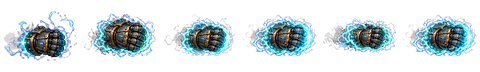
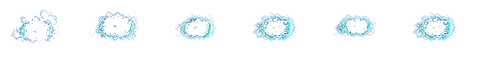
Fix Blitzcrank hook and power fist visuals

diff --git a/tools/ci_encyclopedia_visibility_check.py b/tools/ci_encyclopedia_visibility_check.py
@@ -159,10 +159,6 @@ BLITZCRANK_BUFF_REFS = {
     ),
 }
 BLITZCRANK_VIEW_EFFECT_REFS = {
-    "test_mod_blitzcrank_attack_punch": (
-        "asset/bo_league_champions/aseprite_resources/effects/blitzcrank_attack_punch",
-        "punch",
-    ),
     "test_mod_blitzcrank_punch_hit": (
         "asset/bo_league_champions/aseprite_resources/effects/blitzcrank_punch_hit",
         "hit",
@@ -174,14 +170,6 @@ BLITZCRANK_VIEW_EFFECT_REFS = {
     "test_mod_blitzcrank_grab_hit": (
         "asset/bo_league_champions/aseprite_resources/effects/blitzcrank_grab_hit",
         "hit",
-    ),
-    "test_mod_blitzcrank_mana_barrier": (
-        "asset/bo_league_champions/aseprite_resources/effects/blitzcrank_mana_barrier",
-        "shield",
-    ),
-    "test_mod_blitzcrank_power_fist_ready": (
-        "asset/bo_league_champions/aseprite_resources/effects/blitzcrank_power_fist_ready",
-        "ready",
     ),
     "test_mod_blitzcrank_static_field_cast": (
         "asset/bo_league_champions/aseprite_resources/effects/blitzcrank_static_field_cast",
@@ -1683,7 +1671,12 @@ def assert_no_negative_speed_fields(node: Any, label: str) -> None:
         speed = mapping.get("speed")
         if isinstance(speed, (int, float)) and speed < 0:
             effect_type = mapping.get("type", "<unknown>")
-            fail(f"{label} has invalid negative speed {speed!r} on {effect_type}; TFM2 expects unsigned movement speeds")
+            if effect_type == "Knockback":
+                continue
+            fail(
+                f"{label} has invalid negative speed {speed!r} on {effect_type}; "
+                "only Knockback may use a negative speed for pull-style crowd control"
+            )
 
 
 def find_effect_nodes(node: Any, effect_type: str) -> list[dict[str, Any]]:
@@ -5412,11 +5405,10 @@ def check_blitzcrank_contract(text: dict[str, Any], entries: dict[str, Any]) -> 
         "test_mod_blitzcrank_power_fist_ready",
         "LinearProjectile",
         "test_mod_blitzcrank_rocket_grab",
-        "MoveTo",
+        "Knockback",
         "BlockMoveSkill",
         "Airborne",
         "test_mod_blitzcrank_overdrive",
-        "test_mod_blitzcrank_mana_barrier",
         "RangeEffect",
         "RangePeriodProjectile",
         "test_mod_blitzcrank_static_field_linger",
@@ -5429,6 +5421,37 @@ def check_blitzcrank_contract(text: dict[str, Any], entries: dict[str, Any]) -> 
     for tag in ("AP", "Melee", "Tank", "CC"):
         if tag not in blitz.get("tags", []):
             fail(f"champion/blitzcrank.data_champion tags must include {tag}")
+    skill_strings = set(walk_strings(blitz.get("skill", {})))
+    if "MoveTo" in skill_strings or "RushMoveToBack" in skill_strings or "Teleport" in skill_strings or "DirTeleport" in skill_strings:
+        fail("Blitzcrank Rocket Grab must pull the hit target back; it must not move or teleport Blitzcrank to the target")
+    q_pull_nodes = find_effect_nodes(blitz.get("skill", {}), "Knockback")
+    if len(q_pull_nodes) != 1:
+        fail(f"Blitzcrank Rocket Grab must contain exactly one target pull Knockback, got {len(q_pull_nodes)}")
+    q_pull = q_pull_nodes[0]
+    if q_pull.get("speed", 0) >= 0:
+        fail(f"Blitzcrank Rocket Grab Knockback speed must be negative to pull the target, got {q_pull.get('speed')!r}")
+    if not 8 <= int(q_pull.get("tick", 0)) <= 20:
+        fail(f"Blitzcrank Rocket Grab pull tick must keep the grab readable without self-flight, got {q_pull.get('tick')!r}")
+    attack_effect = blitz.get("attack", {}).get("effect", {})
+    effect_none = attack_effect.get("effect_none") if isinstance(attack_effect, dict) else None
+    effect_buff = attack_effect.get("effect_buff") if isinstance(attack_effect, dict) else None
+    if not isinstance(effect_none, dict) or not isinstance(effect_buff, dict):
+        fail("Blitzcrank attack must use SwitchByBuff effect_none/effect_buff branches")
+    normal_attack_strings = set(walk_strings(effect_none))
+    empowered_attack_strings = set(walk_strings(effect_buff))
+    if "test_mod_blitzcrank_attack_punch" in normal_attack_strings:
+        fail("Blitzcrank basic attack must not use the oversized rocket-fist caster VFX")
+    if "test_mod_blitzcrank_attack_punch" in empowered_attack_strings:
+        fail("Blitzcrank Power Fist attack must rely on actor motion plus target impact, not an oversized caster fist")
+    for required_power_fist_token in ("Airborne", "RemoveCasterBuff", "test_mod_blitzcrank_power_fist_impact"):
+        if required_power_fist_token not in empowered_attack_strings:
+            fail(f"Blitzcrank empowered attack missing Power Fist token {required_power_fist_token}")
+    skill2_strings = set(walk_strings(blitz.get("skill2", {})))
+    for forbidden_skill2_token in ("test_mod_blitzcrank_mana_barrier", "test_mod_blitzcrank_attack_punch"):
+        if forbidden_skill2_token in skill2_strings:
+            fail(f"Blitzcrank W/E must not attach oversized actor-following VFX {forbidden_skill2_token}")
+    if "CasterViewEffect" in skill2_strings:
+        fail("Blitzcrank W/E readiness must be represented by the small buff glow, not one-shot caster-follow VFX")
     expected_icons = [
         "asset/bo_league_champions/icons/blitzcrank_skill",
         "asset/bo_league_champions/icons/blitzcrank_skill2",
@@ -5451,14 +5474,20 @@ def check_blitzcrank_contract(text: dict[str, Any], entries: dict[str, Any]) -> 
             fail(f"champion/blitzcrank.data_champion view_effect {name} must reference generated asset {expected}")
     if next(item for item in blitz["view_effects"] if item["name"] == "test_mod_blitzcrank_static_field_linger").get("is_follow") is not False:
         fail("Blitzcrank Static Field linger must be terrain-anchored, not stuck to the actor body")
+    retired_follow_effects = {
+        "test_mod_blitzcrank_attack_punch",
+        "test_mod_blitzcrank_mana_barrier",
+        "test_mod_blitzcrank_power_fist_ready",
+    }
+    still_registered = retired_follow_effects.intersection(view_refs)
+    if still_registered:
+        fail(f"Blitzcrank retired oversized caster-follow effects must not be registered as view_effects: {sorted(still_registered)}")
 
     for sheet_name, tag, label, min_visible, min_color_bins, min_height, min_fill_ratio in (
         ("blitzcrank_rocket_grab", "grab", "Blitzcrank Rocket Grab image-generated chain fist", 1500, 800, 32, 0.24),
-        ("blitzcrank_attack_punch", "punch", "Blitzcrank attack punch VFX", 1400, 600, 28, 0.22),
         ("blitzcrank_punch_hit", "hit", "Blitzcrank punch hit burst", 1200, 550, 30, 0.22),
-        ("blitzcrank_power_fist_ready", "ready", "Blitzcrank Power Fist ready aura", 1200, 500, 32, 0.22),
+        ("blitzcrank_power_fist_ready", "ready", "Blitzcrank Power Fist compact fist glow", 450, 400, 24, 0.08),
         ("blitzcrank_power_fist_impact", "impact", "Blitzcrank Power Fist impact", 1800, 750, 34, 0.24),
-        ("blitzcrank_mana_barrier", "shield", "Blitzcrank Mana Barrier shield", 1500, 550, 36, 0.24),
         ("blitzcrank_static_field_cast", "cast", "Blitzcrank Static Field cast", 2200, 900, 54, 0.24),
         ("blitzcrank_static_field_hit", "hit", "Blitzcrank Static Field hit", 1800, 750, 34, 0.22),
         ("blitzcrank_static_field_linger", "field", "Blitzcrank Static Field terrain linger", 2200, 900, 54, 0.24),

diff --git a/tools/local_runtime_encyclopedia_check.py b/tools/local_runtime_encyclopedia_check.py
@@ -458,7 +458,12 @@ def assert_no_negative_speed_fields(node: object, label: str) -> None:
         speed = mapping.get("speed")
         if isinstance(speed, (int, float)) and speed < 0:
             effect_type = mapping.get("type", "<unknown>")
-            fail(f"{label} has invalid negative speed {speed!r} on {effect_type}; TFM2 expects unsigned movement speeds")
+            if effect_type == "Knockback":
+                continue
+            fail(
+                f"{label} has invalid negative speed {speed!r} on {effect_type}; "
+                "only Knockback may use a negative speed for pull-style crowd control"
+            )
 
 
 def check_darius_ult_visibility(path: Path, champion: object) -> None: